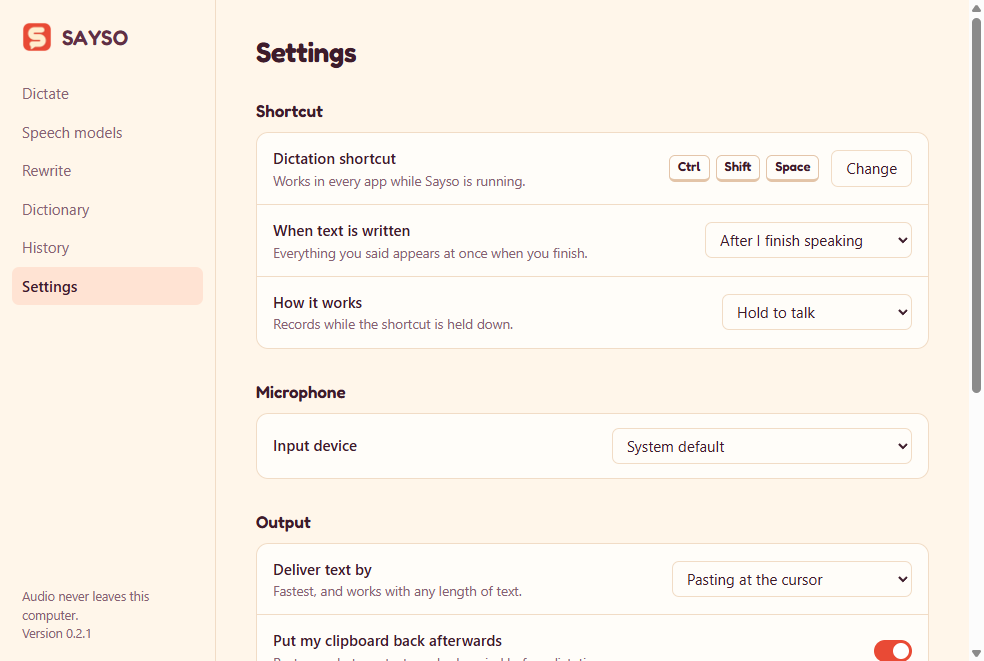
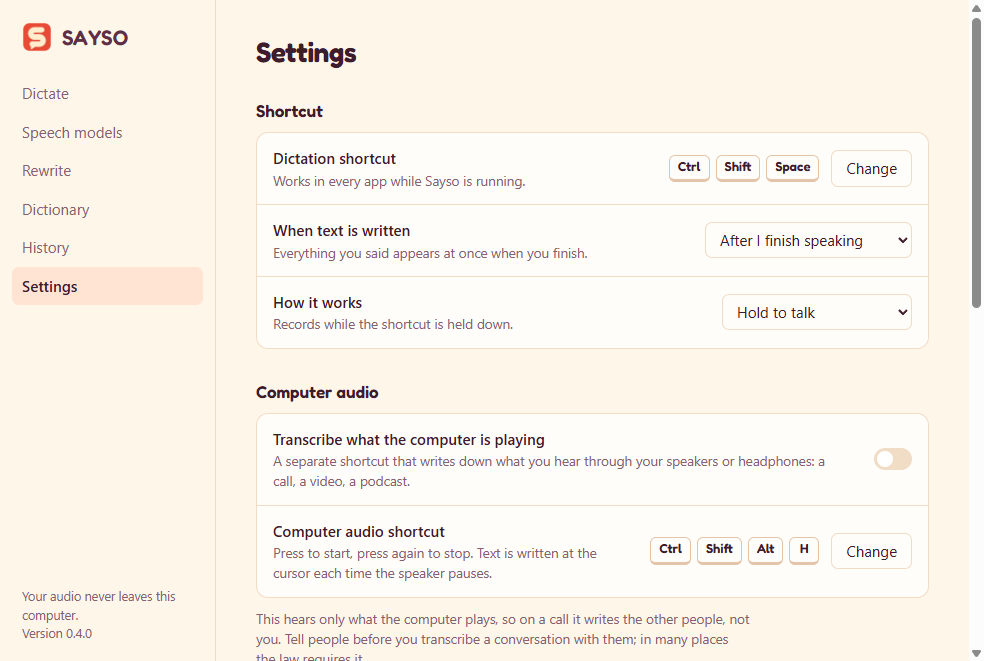
docs: update the README for 0.4.0; smoke-test every screen (#9)
README: performance figures and how they were reached, a privacy and security section, beta releases, how changes are checked, and a revised roadmap. New Settings screenshot.

The smoke test now opens every screen, and a screen that fails to draw shows a message in place of a blank window. Documentation-only pushes to main skip CI.

diff --git a/src/renderer/src/App.tsx b/src/renderer/src/App.tsx
@@ -1,6 +1,7 @@
 import { useCallback, useEffect, useRef, useState } from 'react'
 import type { DownloadProgress, HistoryItem, ModelInfo, Settings, Status, UpdateState } from '../../shared/types'
 import brandIcon from '../../../resources/icon.png'
+import { PageBoundary } from './components'
 import { errorText } from './format'
 import { DictionaryPage } from './pages/Dictionary'
 import { HistoryPage } from './pages/History'
@@ -212,12 +213,14 @@ export function App(): React.JSX.Element {
       </nav>
 
       <main className="main">
-        {page === 'home' && <HomePage {...state} />}
-        {page === 'models' && <ModelsPage {...state} />}
-        {page === 'rewrite' && <RewritePage {...state} />}
-        {page === 'dictionary' && <DictionaryPage {...state} />}
-        {page === 'history' && <HistoryPage {...state} />}
-        {page === 'settings' && <SettingsPage {...state} />}
+        <PageBoundary key={page}>
+          {page === 'home' && <HomePage {...state} />}
+          {page === 'models' && <ModelsPage {...state} />}
+          {page === 'rewrite' && <RewritePage {...state} />}
+          {page === 'dictionary' && <DictionaryPage {...state} />}
+          {page === 'history' && <HistoryPage {...state} />}
+          {page === 'settings' && <SettingsPage {...state} />}
+        </PageBoundary>
       </main>
 
       {notice && (

diff --git a/src/renderer/src/components.tsx b/src/renderer/src/components.tsx
@@ -1,5 +1,33 @@
-import { useEffect, useState } from 'react'
+import { Component, type ReactNode, useEffect, useState } from 'react'
 import { shortcutFromEvent, shortcutKeys } from './format'
+
+/**
+ * Keeps a failure on one screen from blanking the whole window. The sidebar stays usable,
+ * so the person can go somewhere else or try again.
+ */
+export class PageBoundary extends Component<{ children: ReactNode }, { error: Error | null }> {
+  state = { error: null as Error | null }
+
+  static getDerivedStateFromError(error: Error): { error: Error } {
+    return { error }
+  }
+
+  render(): ReactNode {
+    if (!this.state.error) return this.props.children
+    return (
+      <div className="page page-error" role="alert">
+        <header className="page-head">
+          <h1>This screen could not be shown</h1>
+          <p>
+            Something went wrong while drawing it. Dictation keeps working. Try another screen, or quit Sayso from the
+            tray and open it again.
+          </p>
+        </header>
+        <p className="quiet fine-print">{this.state.error.message}</p>
+      </div>
+    )
+  }
+}
 
 export function Keys({ shortcut, size = 'md' }: { shortcut: string; size?: 'md' | 'xl' }): React.JSX.Element {
   return (

diff --git a/src/main/smoke.ts b/src/main/smoke.ts
@@ -63,6 +63,25 @@ export async function runSmokeTest({ core, mainWindow, overlay, iconPaths }: Con
       () => waitFor(mainWindow, "window.stt.call('list_models').then((m) => m.length >= 7, () => false)")
     ],
     [
+      'every screen opens',
+      () =>
+        waitFor(
+          mainWindow,
+          `(async () => {
+            const names = [...document.querySelectorAll('.nav-item')].map((b) => b.textContent)
+            if (names.length < 6) return false
+            for (const name of names) {
+              const item = [...document.querySelectorAll('.nav-item')].find((b) => b.textContent === name)
+              if (!item) return false
+              item.click()
+              await new Promise((resolve) => setTimeout(resolve, 300))
+              if (!document.querySelector('.page') || document.querySelector('.page-error')) return false
+            }
+            return true
+          })()`
+        )
+    ],
+    [
       'the interface cannot start a recording',
       () => waitFor(mainWindow, "window.stt.call('toggle_recording').then(() => false, () => true)", 5_000)
     ]

diff --git a/README.md b/README.md
@@ -38,6 +38,8 @@ While you speak, a small indicator at the bottom of the screen shows your voice 
   written. It never takes keyboard focus.
 - **Long recordings.** Anything over 25 seconds is split at pauses with a voice-activity model, so there is no length
   limit in practice.
+- **Fast, and stays fast.** Recognition typically takes a fraction of a second, and Sayso asks the system to keep
+  it that way while other programs are busy. See [Performance](#performance).
 - **Lives in the tray**, optionally starting at login, and tells you when an update is ready.
 
 ## Speech models
@@ -56,6 +58,33 @@ While you speak, a small indicator at the bottom of the screen shows your voice 
 
 Models run through [sherpa-onnx](https://github.com/k2-fsa/sherpa-onnx) using 8-bit quantized ONNX exports. Each
 model has its own license; check its model card before commercial use.
+
+## Performance
+
+Measured on a 16-core desktop CPU (Intel i7-13700F), no GPU involved, with the models' 8-bit versions:
+
+| Model | 3-second dictation | 7-second dictation |
+| --- | --- | --- |
+| Parakeet TDT 0.6B v3 | about 0.17 s | about 0.4 s |
+| Whisper Small | about 0.45 s | about 1.0 s |
+| Whisper Large v3 Turbo | about 0.55 s | about 1.1 s |
+
+Those were taken with a flight simulator running on the same machine. Three things keep the numbers there:
+
+- **Priority.** The speech engine is a background process, and Windows slows those down when something else is
+  busy. Sayso opts out. With a game running, a 7-second clip went from about 1.15 s to 0.45 s.
+- **Threads.** Up to six, never more than the machine's physical cores. More than eight made every model slower.
+- **Whisper padding.** Whisper appends silence before recognising; three seconds instead of the engine's longer
+  default roughly halves its time on short dictations, with the same text.
+
+Model choice matters more than any setting: Parakeet, Canary and SenseVoice are several times faster than Whisper
+on the same audio. GPU acceleration was tested and gave no gain with these models, so Sayso runs on the CPU.
+
+To measure your own machine, build from source and run:
+
+```bash
+core/target/release/sayso-core bench --data-dir <your Sayso data folder> --wav speech.wav
+```
 
 ## Rewrite with a language model
 
@@ -85,6 +114,24 @@ transcribe a conversation with them; in many places the law requires it.
 Writing as you speak always uses press-to-start and press-to-stop. Text is typed while you are still talking, and
 keys held down for hold-to-talk would turn that typing into other shortcuts.
 
+## Privacy and security
+
+- **Audio stays on your computer.** It is held in memory for the length of a dictation and never written to disk
+  or sent anywhere.
+- **The network is used for three things only:** downloading models from Hugging Face, checking GitHub for
+  updates, and — only if you turn on the rewrite shortcut — sending the transcribed text to OpenRouter.
+- **Downloads are verified.** Every model file is pinned to an exact revision and checked against a SHA-256
+  checksum before it is used.
+- **Your OpenRouter key is encrypted** by the operating system's credential store. The interface can set or remove
+  it but cannot read it back.
+- **Rewrite replies are not trusted.** Before a reply is written at your cursor, control characters are removed, it
+  may not add line breaks you did not dictate, and a reply far longer than what you said is discarded.
+- **Dictations are kept out of clipboard history** and cloud clipboard sync.
+- **The interface is locked down.** It runs sandboxed, cannot navigate away from the app, and can call only a fixed
+  list of engine functions; it cannot start a recording by itself.
+
+Report vulnerabilities privately; see [SECURITY.md](SECURITY.md).
+
 ## Install
 
 Download the installer for your system from the
@@ -102,6 +149,9 @@ Then open the app, pick a model under **Speech models**, and hold the shortcut (
 Linux, `⌥ Space` on macOS).
 
 Installing a newer version over an existing one replaces it and keeps your models, settings and history.
+
+**Beta versions** appear on the Releases page marked "Pre-release". They are for trying changes early and are not
+offered through the app's own updater unless you are already running a beta.
 
 ### Platform notes
 
@@ -132,6 +182,16 @@ Linux also needs: `sudo apt install pkg-config libasound2-dev libx11-dev libxi-d
 
 To build an installer for the system you are on: `npm run dist` (output in `dist/`).
 
+Before opening a pull request, run what CI runs:
+
+```bash
+npm run check
+```
+
+```bash
+npm run core:test
+```
+
 More in [CONTRIBUTING.md](CONTRIBUTING.md) and [docs/ARCHITECTURE.md](docs/ARCHITECTURE.md).
 
 ## How it is built
@@ -142,14 +202,30 @@ More in [CONTRIBUTING.md](CONTRIBUTING.md) and [docs/ARCHITECTURE.md](docs/ARCHI
 
 The two talk over a small JSON protocol, so the core can be reused by other front ends later.
 
+### How changes are checked
+
+- **Every pull request:** formatting, lint and unit tests for both halves, plus a smoke test that builds the real
+  app, starts it, and has it check itself — the engine runs, every screen opens, the icons are in the package.
+- **Every release:** all of that on Windows, macOS and Linux for the tagged commit, before any installer is built.
+- **Every week:** an audit of the dependencies against known vulnerabilities.
+
 ## Roadmap
 
-- GPU acceleration (CUDA, DirectML, CoreML)
-- Word-by-word text with streaming models, not only at pauses
-- Rewriting with a local language model, with no network at all
-- Per-app settings, such as a different model or style in your code editor
-- Wayland support
-- Signed installers
+Shipped so far: dictation at the cursor, seven downloadable models, writing as you speak, the rewrite shortcut,
+computer-audio transcription, in-app update notices, and the performance and security work described above.
+
+Next, roughly in order:
+
+- **Signed installers** for Windows and macOS, which removes the install warnings and enables self-update on macOS
+- **Computer audio on macOS**, and mixing in the microphone so both sides of a call are written
+- **Word-by-word text** with streaming models, not only at pauses
+- **Rewriting with a local language model**, with no network at all
+- **Per-app settings**, such as a different model or rewrite style in your code editor
+- **Wayland support** on Linux
+- **A transcript window** as an alternative to typing at the cursor for long recordings
+
+Considered and set aside: GPU acceleration. It works, but gave no speed-up with the 8-bit models Sayso uses; it
+would need full-precision models several times the size. It may return if there is demand.
 
 ## License
 

diff --git a/CHANGELOG.md b/CHANGELOG.md
@@ -12,6 +12,7 @@ follow [Semantic Versioning](https://semver.org).
 - Tags with a suffix (`v0.5.0-beta.1`) publish as pre-releases that are not offered to stable users
 - The interface is linted with ESLint, formatted with Prettier, and has unit tests
 - A weekly dependency audit opens an issue when a shipped dependency has a known vulnerability
+- The smoke test opens every screen, and a failure on one screen no longer blanks the whole window
 
 ## 0.4.0
 
